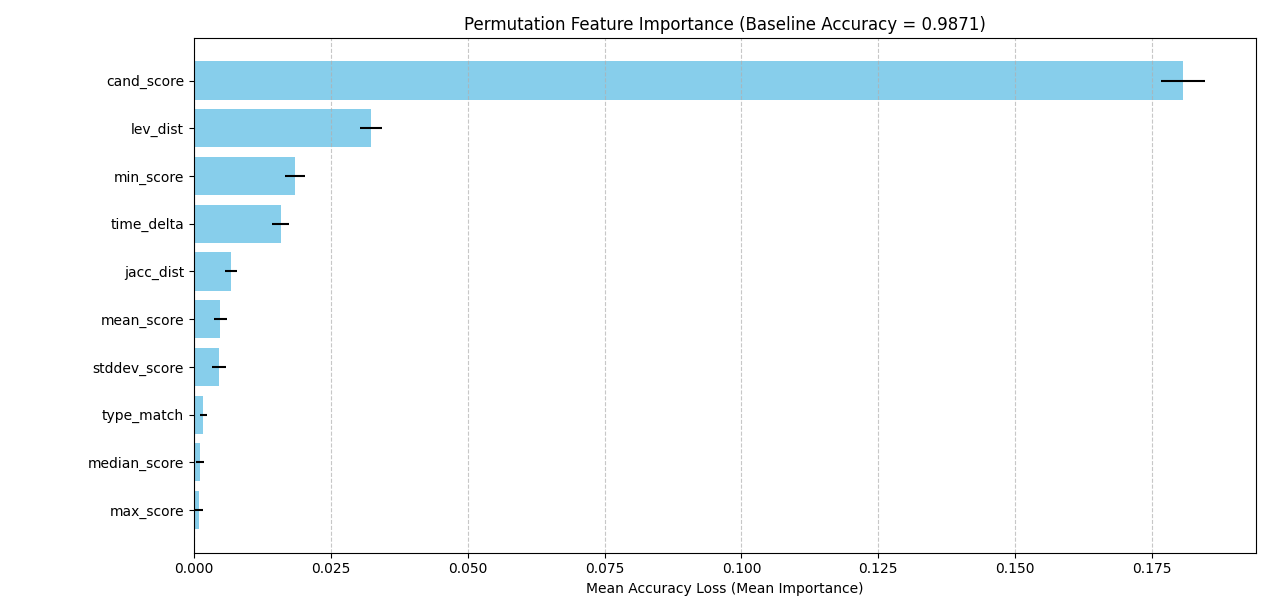
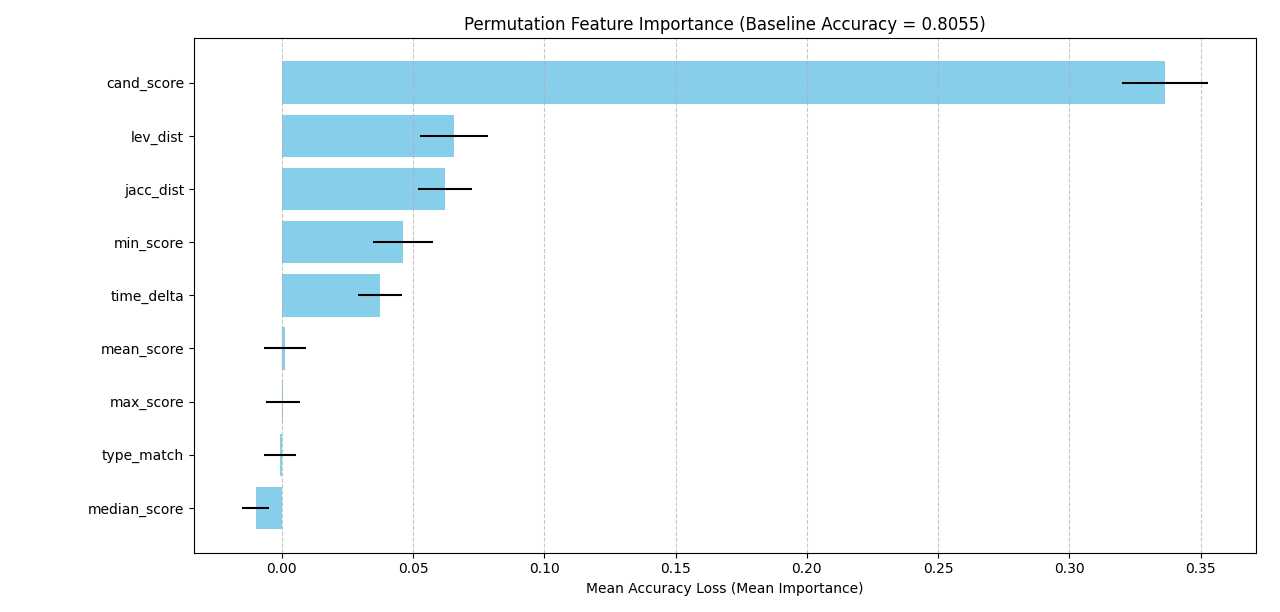
minfix permutation test

diff --git a/test_elite.py b/test_elite.py
@@ -2,43 +2,36 @@ import csv
 from elite.biencoder import encode_mention_from_dict
 from elite.indexer import search_index_from_dict
 from elite.utils import load_from_config, load_csv_dataset
-from elite.reranker import rerank_candidates_from_dict
+from elite.reranker import disambiguate_mentions_and_rerank
 
 
-def process_documents(documents, config_file):
+
+params = {
+    "paragraphs_path": "../ENEIDE/DZ/v0.1/paragraphs_test.csv",
+    "annotations_path": "./DZ_results/gliner_dz/output.csv",
+    "config_file": "config.json",
+    "top_k": 50,
+    "threshold_nil": 0.5
+}
+
+
+def process_documents(params):
     output = []
-    biencoder, biencoder_params, indexer, conn, rf_classifier = load_from_config(config_file)
+    documents = load_csv_dataset(params["paragraphs_path"], params["annotations_path"])
+    biencoder, biencoder_params, indexer, conn, gbt_classifier = load_from_config(params["config_file"])
     for doc in documents:
-        print("Encoding mentions in document: ", doc["doc_id"])
-        doc_with_linking = encode_mention_from_dict(doc, biencoder, biencoder_params)
-        doc_with_candidates = search_index_from_dict(doc_with_linking, indexer, conn, top_k=50)
-        doc_reranked = rerank_candidates_from_dict(doc_with_candidates, rf_classifier)
-        for result in doc_reranked["annotations"]:
-            # if result["best_linking"]["rf_score"] < 0.5:
-            #     identifier = "NIL"
-            #     wiki_title = ""
-            # else:
-            #     identifier = result["best_linking"]["q_id"]
-            #     wiki_title = result["best_linking"]["title"]
-            # experiment with no NIL:
-            identifier = result["best_linking"]["q_id"]
-            wiki_title = result["best_linking"]["title"]
-            item = {"doc_id": result["doc_id"], "start_pos": result["start_pos"], "end_pos": result["end_pos"],
-                    "surface": result["surface"], "type": result["type"], "identifier": identifier,
-                    "wiki_title": wiki_title, "score": result["best_linking"]["rf_score"]}
-            output.append(item)
+        doc_reranked = disambiguate_mentions_and_rerank(doc, biencoder, biencoder_params,
+                                                        indexer, conn, gbt_classifier,
+                                                        params["top_k"], params["threshold_nil"])
+        output.extend(doc_reranked["entities"])
     return output
 
 
 
-paragraphs_path = "../ENEIDE/DZ/v0.1/paragraphs_test.csv"
-annotations_path = "../ENEIDE/DZ/v0.1/annotations_test.csv"
 
-input_data = load_csv_dataset(paragraphs_path, annotations_path)
+results_rerankered = process_documents(params)
 
-results_rerankered = process_documents(input_data, "config.json")
-
-with open("DZ_results/elite_ed_no_nil.csv", "w", encoding="utf-8") as out_f:
+with open("DZ_results/elite_el_no_stddev.csv", "w", encoding="utf-8") as out_f:
     dict_writer = csv.DictWriter(out_f, results_rerankered[0].keys())
     dict_writer.writeheader()
     dict_writer.writerows(results_rerankered)

diff --git a/permutation_test_features.py b/permutation_test_features.py
@@ -2,43 +2,48 @@ import os
 import pandas as pd
 import matplotlib.pyplot as plt
 import numpy as np
-from elite.feature_selector import load_json_data, get_training_features
+from elite.feature_selector import load_json_data, compute_features
+from elite.reranker import get_rf_scores
 from joblib import load
 from sklearn.inspection import permutation_importance
-from sklearn.metrics import roc_auc_score, accuracy_score
+from sklearn.metrics import accuracy_score
 
 json_data_path = "./DZ_results"
 model_directory = "./ELITE_models/GBT"
+threshold_nil = 0.5
 
-training_json_path = os.path.join(json_data_path, "candidates_train50.json")
-dev_json_path = os.path.join(json_data_path, "candidates_dev50.json")
+
+def get_features_with_reranker(list_of_results, rf_classifier):
+    output = []
+    for result_lookup in list_of_results:
+        similarity_features = compute_features(result_lookup)
+        matching_probabilities = get_rf_scores(rf_classifier, similarity_features)
+        zipped_features = zip(matching_probabilities, similarity_features)
+        sorted_features = sorted(zipped_features, reverse=True, key=lambda x: x[0])
+        best_score, feature = sorted_features[0]
+        if best_score < threshold_nil and not result_lookup["identifier"].startswith("Q"):
+            feature["qid_match"] = 1
+        output.append(feature)
+    return output
+
+
+
+
+
+final_model = load(os.path.join(model_directory, 'gbt_dz_b50_n10_no_stddev.joblib'))
+
 test_json_path = os.path.join(json_data_path, "candidates_test50.json")
 
-print("\n -------------------------\n Computing features for train data: \n")
-train_data = load_json_data(training_json_path)
-train_features = get_training_features(train_data, k=5)
 
-print("\n -------------------------\n Computing features for dev data: \n")
-dev_data = load_json_data(dev_json_path)
-dev_features = get_training_features(dev_data, k=5)
-
-print("\n -------------------------\n Computing features for test data: \n")
 test_data = load_json_data(test_json_path)
-test_features = get_training_features(test_data, k=5)
 
-df_train = pd.DataFrame(train_features)
-df_dev = pd.DataFrame(dev_features)
+print("\n -------------------------\n Computing features for final GBT model: \n")
+test_features = get_features_with_reranker(test_data, final_model)
+
+
 df_test = pd.DataFrame(test_features)
-y_train = df_train['qid_match'].values
-y_dev = df_dev['qid_match'].values
 y_test = df_test['qid_match'].values
-X_train = df_train.drop('qid_match', axis=1)
-X_dev = df_dev.drop('qid_match', axis=1)
 X_test = df_test.drop('qid_match', axis=1)
-
-
-
-final_model = load(os.path.join(model_directory, 'gbt_dz_b50_n10.joblib'))
 
 
 y_pred_base = final_model.predict(X_test)

diff --git a/elite/reranker.py b/elite/reranker.py
@@ -9,7 +9,7 @@ import numpy as np
 def get_rf_scores(model, features):
     input_data = pd.DataFrame(features)
     input_features = input_data[
-        ['min_score', 'max_score', 'mean_score', 'median_score', 'stddev_score', 'cand_score', 'lev_dist', 'jacc_dist',
+        ['min_score', 'max_score', 'mean_score', 'median_score', 'cand_score', 'lev_dist', 'jacc_dist',
          'time_delta', 'type_match']]
     probabilities = model.predict_proba(input_features)
     matching_probabilities = [prob[1] for prob in probabilities]
@@ -50,7 +50,7 @@ def disambiguate_mentions_and_rerank(doc,
                                      conn,
                                      rf_classifier,
                                      top_k=50,
-                                    threshold_nil=0.5):
+                                     threshold_nil=0.5):
 
     entities = []
     print("Encoding mentions in document: ", doc["doc_id"])

diff --git a/test_ner.py b/test_ner.py
@@ -3,6 +3,13 @@ import csv
 import os
 
 
+paragraphs_path = "../ENEIDE/DZ/v0.1/paragraphs_test.csv"
+config_file = "config.json"
+tagset = "DZ"
+threshold_ner = 0.9
+output_path = "./DZ_results/ner/"
+
+
 
 def main(config_file, documents, threshold_ner, tagset):
     output = []
@@ -14,17 +21,14 @@ def main(config_file, documents, threshold_ner, tagset):
     return output
 
 
-paragraphs_path = "../ENEIDE/DZ/v0.1/paragraphs_test.csv"
+
 
 with open(paragraphs_path, "r", encoding="utf-8") as f:
     paragraphs = csv.DictReader(f)
     paragraphs = list(paragraphs)
 f.close()
 
-config_file = "config.json"
-tagset = "DZ"
-threshold_ner = 0.9
-output_path = "./DZ_results/ner/"
+
 
 result = main(config_file, paragraphs, threshold_ner, tagset)
 

diff --git a/train_gbt_classifier.py b/train_gbt_classifier.py
@@ -68,7 +68,7 @@ best_params['learning_rate'] = best_params['learning_rate']
 if not os.path.exists(output_directory):
     os.makedirs(output_directory)
 
-with open(os.path.join(output_directory, "params_gbt_dz_b100_n10.txt"), "w") as f:
+with open(os.path.join(output_directory, "params_gbt_dz_b50_n10_no_stddev.txt"), "w") as f:
     f.write(str(best_params))
 f.close()
 print("Best parameters: ", best_params)
@@ -79,4 +79,4 @@ final_preds = final_model.predict_proba(X_test)[:, 1]
 final_auc = roc_auc_score(y_test, final_preds)
 print(f"ROC AUC Score on the Test Set: {final_auc}")
 
-dump(final_model, os.path.join(output_directory, 'gbt_dz_b100_n10.joblib'))
+dump(final_model, os.path.join(output_directory, 'gbt_dz_b50_n10_no_stddev.joblib'))

diff --git a/elite/feature_selector.py b/elite/feature_selector.py
@@ -41,7 +41,6 @@ def compute_features(result):
     min_score = min(scores)
     max_score = max(scores)
     mean_score = statistics.mean(scores)
-    std_dev = statistics.stdev(scores)
     median_score = statistics.median(scores)
     publication_year = result.get("publication_date", None)
     for candidate in result["candidates"]:
@@ -83,7 +82,6 @@ def compute_features(result):
             "max_score":max_score,
             "mean_score":mean_score,
             "median_score":median_score,
-            "stddev_score":std_dev,
             "cand_score":cand_score,
             "lev_dist":lev_distance,
             "jacc_dist":jaccard_distance,

diff --git a/test_score_correlation.py b/test_score_correlation.py
@@ -2,7 +2,7 @@ import pandas as pd
 from scipy.stats import pointbiserialr
 
 
-df_elite = pd.read_csv("DZ_results/elite_ed/output.csv")
+df_elite = pd.read_csv("DZ_results/elite_ed_no_stddev.csv")
 df_blink = pd.read_csv("../ENEIDE/results/DZ/mgenre_impresso_ed/output.csv")
 df_gt = pd.read_csv("../ENEIDE/DZ/v0.1/annotations_test.csv")
 
